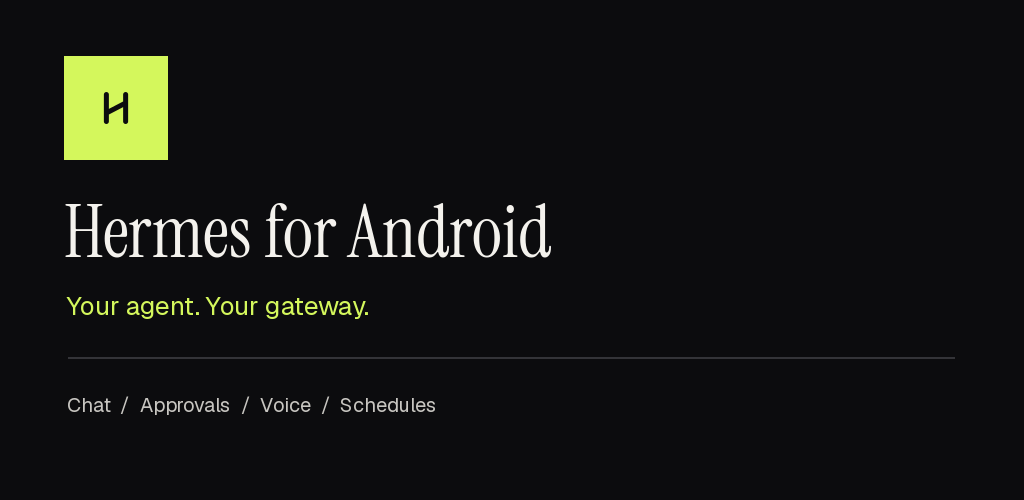
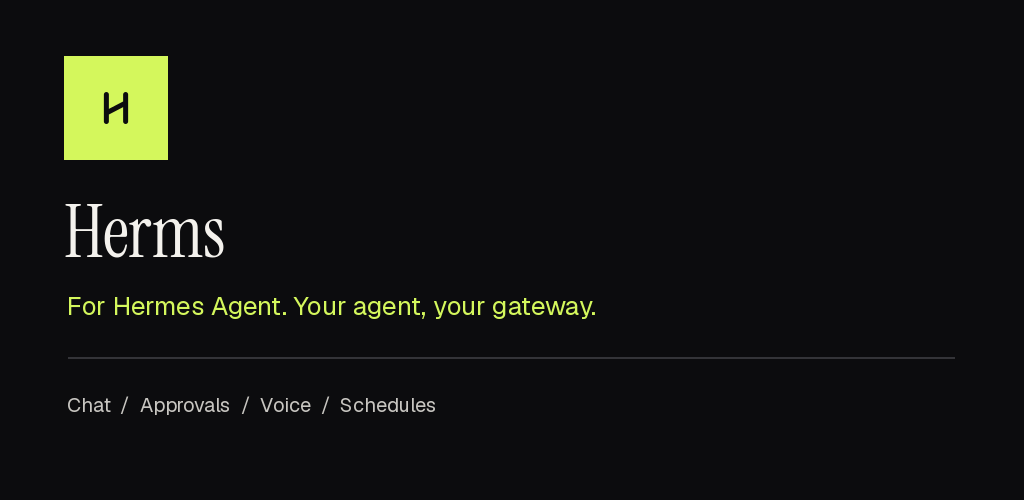
feat(play): name the Play edition Herms
The Play listing is "Herms for Hermes Agent" and the Play build's label is
Herms; the sideload app stays Hermes. "Hermes for Android" collided with the
official Hermes Mobile app and an existing carrier brand, and Nous has warned
about lookalike Hermes branding.

- EDITION_NAME per flavor feeds About, legal and report diagnostics.
- Play manifest relabels the app and the Fleet widget.
- Listing, Play policy title and feature graphic say Herms, with an explicit
  not-affiliated-with-Nous-Research line.

Changed region(s): [[0.1875, 0.39, 0.5312, 0.54], [0.0625, 0.6, 0.5938, 0.66]]

diff --git a/android/app/src/main/java/dev/avifenesh/hermes/Screens2.kt b/android/app/src/main/java/dev/avifenesh/hermes/Screens2.kt
@@ -713,7 +713,7 @@ fun MeScreen() {
         item { Panel { NavRow(Ic.book, "Licenses", "Offline notices, model restrictions and full license texts") { Ui.push(Route.LegalR()) } } }
         item { ReportProblemRow() }
         item {
-            Text("Hermes for Android " + runCatching { ctx.packageManager.getPackageInfo(ctx.packageName, 0).versionName }.getOrNull().orEmpty(),
+            Text("$EDITION_NAME " + runCatching { ctx.packageManager.getPackageInfo(ctx.packageName, 0).versionName }.getOrNull().orEmpty(),
                 style = mono(11.5f, 500, p.dim), modifier = Modifier.padding(horizontal = 20.dp, vertical = 18.dp))
         }
     }
@@ -835,7 +835,7 @@ fun PhoneSettingsScreen() {
                         Column(Modifier.padding(20.dp)) {
                             Btn("Unpair this phone", Modifier.fillMaxWidth(), danger = true) { unpair = true }
                             Spacer(Modifier.height(18.dp))
-                            Text("Hermes for Android " + runCatching { ctx.packageManager.getPackageInfo(ctx.packageName, 0).versionName }.getOrNull().orEmpty(), style = mono(11.5f, 500, p.dim))
+                            Text("$EDITION_NAME " + runCatching { ctx.packageManager.getPackageInfo(ctx.packageName, 0).versionName }.getOrNull().orEmpty(), style = mono(11.5f, 500, p.dim))
                         }
                     }
                 }

diff --git a/report-worker/privacy.html b/report-worker/privacy.html
@@ -1,5 +1,5 @@
 <!doctype html>
-<html lang="en"><head><meta charset="utf-8"><meta name="viewport" content="width=device-width,initial-scale=1"><title>Hermes for Android: privacy</title><link rel="stylesheet" href="/style.css"></head><body><header>HERMES / ANDROID</header><main><h1>Hermes for Android: Google Play privacy policy</h1>
+<html lang="en"><head><meta charset="utf-8"><meta name="viewport" content="width=device-width,initial-scale=1"><title>Herms for Hermes Agent: privacy</title><link rel="stylesheet" href="/style.css"></head><body><header>HERMES / ANDROID</header><main><h1>Herms for Hermes Agent: Google Play privacy policy</h1>
 <p>Prepared 2026-11-04 for the <strong>0.16.16 candidate</strong>, package <strong>dev.avifenesh.hermes.play</strong>. This candidate has not been submitted to Google Play. Developer: <strong>Avi Fenesh / Tiyuvta</strong>. Privacy and support: <strong>hello@tiyuvta.ai</strong>.</p>
 <h2>Where your information goes</h2>
 <p>Hermes connects to the gateway you choose when pairing. You or another operator control that gateway, its storage, AI providers, tools and integrations. The publisher does not provide a central chat backend. There is no automatic publisher analytics, crash-reporting or behavior-tracking program. This does not mean that no information leaves your phone.</p>

diff --git a/android/app/src/main/java/dev/avifenesh/hermes/Support.kt b/android/app/src/main/java/dev/avifenesh/hermes/Support.kt
@@ -197,7 +197,7 @@ internal fun SupportDialog(
     }
     val diagnostics = remember(request.id) {
         buildString {
-            append("App: Hermes for Android ").append(runCatching { ctx.packageManager.getPackageInfo(ctx.packageName, 0).versionName }.getOrNull().orEmpty())
+            append("App: $EDITION_NAME ").append(runCatching { ctx.packageManager.getPackageInfo(ctx.packageName, 0).versionName }.getOrNull().orEmpty())
             append("\nPackage: ").append(ctx.packageName)
             append("\nAndroid: ").append(Build.VERSION.RELEASE).append(" (API ").append(Build.VERSION.SDK_INT).append(')')
             append("\nDevice: ").append(Build.MANUFACTURER).append(' ').append(Build.MODEL)

diff --git a/android/app/src/play/java/dev/avifenesh/hermes/ChannelSettings.kt b/android/app/src/play/java/dev/avifenesh/hermes/ChannelSettings.kt
@@ -7,7 +7,7 @@ internal fun phoneSettingsTabs() = listOf("look" to "Look", "voice" to "Voice", 
 
 // A restored/stale route is an explicit unsupported state, never an arming surface.
 internal fun LazyListScope.channelControlSettings() {
-    item { Panel { SettingRow("Unavailable in this edition", "This Play preview cannot read or operate other apps. Remote commands cannot enable this capability.") {} } }
+    item { Panel { SettingRow("Unavailable in this edition", "This Play edition cannot read or operate other apps. Remote commands cannot enable this capability.") {} } }
 }
 
 @Composable

diff --git a/android/app/src/main/java/dev/avifenesh/hermes/Legal.kt b/android/app/src/main/java/dev/avifenesh/hermes/Legal.kt
@@ -70,7 +70,7 @@ fun PrivacyScreen() {
     var retry by remember { mutableStateOf(0) }
     val appContext = remember(context) {
         val version = runCatching { context.packageManager.getPackageInfo(context.packageName, 0).versionName }.getOrNull().orEmpty()
-        "Hermes for Android $version\nPackage: ${context.packageName}"
+        "$EDITION_NAME $version\nPackage: ${context.packageName}"
     }
     LaunchedEffect(context, retry) {
         failed = false

diff --git a/android/app/src/play/java/dev/avifenesh/hermes/Edition.kt b/android/app/src/play/java/dev/avifenesh/hermes/Edition.kt
@@ -1,0 +1,4 @@
+package dev.avifenesh.hermes
+
+/** Display name of this distribution edition (About, legal, report diagnostics). Play title: "Herms for Hermes Agent". */
+internal const val EDITION_NAME = "Herms"

diff --git a/android/app/src/full/java/dev/avifenesh/hermes/Edition.kt b/android/app/src/full/java/dev/avifenesh/hermes/Edition.kt
@@ -1,0 +1,4 @@
+package dev.avifenesh.hermes
+
+/** Display name of this distribution edition (About, legal, report diagnostics). */
+internal const val EDITION_NAME = "Hermes for Android"

diff --git a/scripts/build_play_policy.py b/scripts/build_play_policy.py
@@ -19,7 +19,7 @@ def main() -> None:
     text = source.read_text()
     assert text == (ROOT / 'android/app/src/play/assets/privacy/privacy-policy.md').read_text()
     body = markdown.markdown(text, extensions=['tables'])
-    page = '<!doctype html>\n<html lang="en"><head><meta charset="utf-8"><meta name="viewport" content="width=device-width,initial-scale=1"><title>Hermes for Android: privacy</title><link rel="stylesheet" href="/style.css"></head><body><header>HERMES / ANDROID</header><main>' + body + '<p class="footer"><a href="/delete">Report-data deletion</a></p></main></body></html>\n'
+    page = '<!doctype html>\n<html lang="en"><head><meta charset="utf-8"><meta name="viewport" content="width=device-width,initial-scale=1"><title>Herms for Hermes Agent: privacy</title><link rel="stylesheet" href="/style.css"></head><body><header>HERMES / ANDROID</header><main>' + body + '<p class="footer"><a href="/delete">Report-data deletion</a></p></main></body></html>\n'
     (ROOT / 'report-worker/privacy.html').write_text(page)
     print(json.dumps({'policy_markdown_sha256': hashlib.sha256(source.read_bytes()).hexdigest(),
                       'privacy_html_sha256': hashlib.sha256(page.encode()).hexdigest(),

diff --git a/scripts/build_play_artwork.py b/scripts/build_play_artwork.py
@@ -54,8 +54,8 @@ def main() -> None:
     sans = ImageFont.truetype(str(font_dir / 'geist.ttf'), 26)
     small = ImageFont.truetype(str(font_dir / 'geist.ttf'), 20)
     image.paste(app_icon(104), (64, 56))
-    draw.text((64, 184), 'Hermes for Android', font=serif, fill='#F4F2ED')
-    draw.text((67, 288), 'Your agent. Your gateway.', font=sans, fill='#D4F75C')
+    draw.text((64, 184), 'Herms', font=serif, fill='#F4F2ED')
+    draw.text((67, 288), 'For Hermes Agent. Your agent, your gateway.', font=sans, fill='#D4F75C')
     draw.line((68, 357, 954, 357), fill='#343438', width=2)
     draw.text((67, 391), 'Chat  /  Approvals  /  Voice  /  Schedules', font=small, fill='#C8C6C1')
     image.save(args.output / 'feature-1024x500.png', optimize=True)

diff --git a/android/app/src/play/assets/privacy/privacy-policy.md b/android/app/src/play/assets/privacy/privacy-policy.md
@@ -1,4 +1,4 @@
-# Hermes for Android: Google Play privacy policy
+# Herms for Hermes Agent: Google Play privacy policy
 
 Prepared 2026-11-04 for the **0.16.16 candidate**, package **dev.avifenesh.hermes.play**. This candidate has not been submitted to Google Play. Developer: **Avi Fenesh / Tiyuvta**. Privacy and support: **hello@tiyuvta.ai**.
 

diff --git a/docs/play/privacy-policy.md b/docs/play/privacy-policy.md
@@ -1,4 +1,4 @@
-# Hermes for Android: Google Play privacy policy
+# Herms for Hermes Agent: Google Play privacy policy
 
 Prepared 2026-11-04 for the **0.16.16 candidate**, package **dev.avifenesh.hermes.play**. This candidate has not been submitted to Google Play. Developer: **Avi Fenesh / Tiyuvta**. Privacy and support: **hello@tiyuvta.ai**.
 
